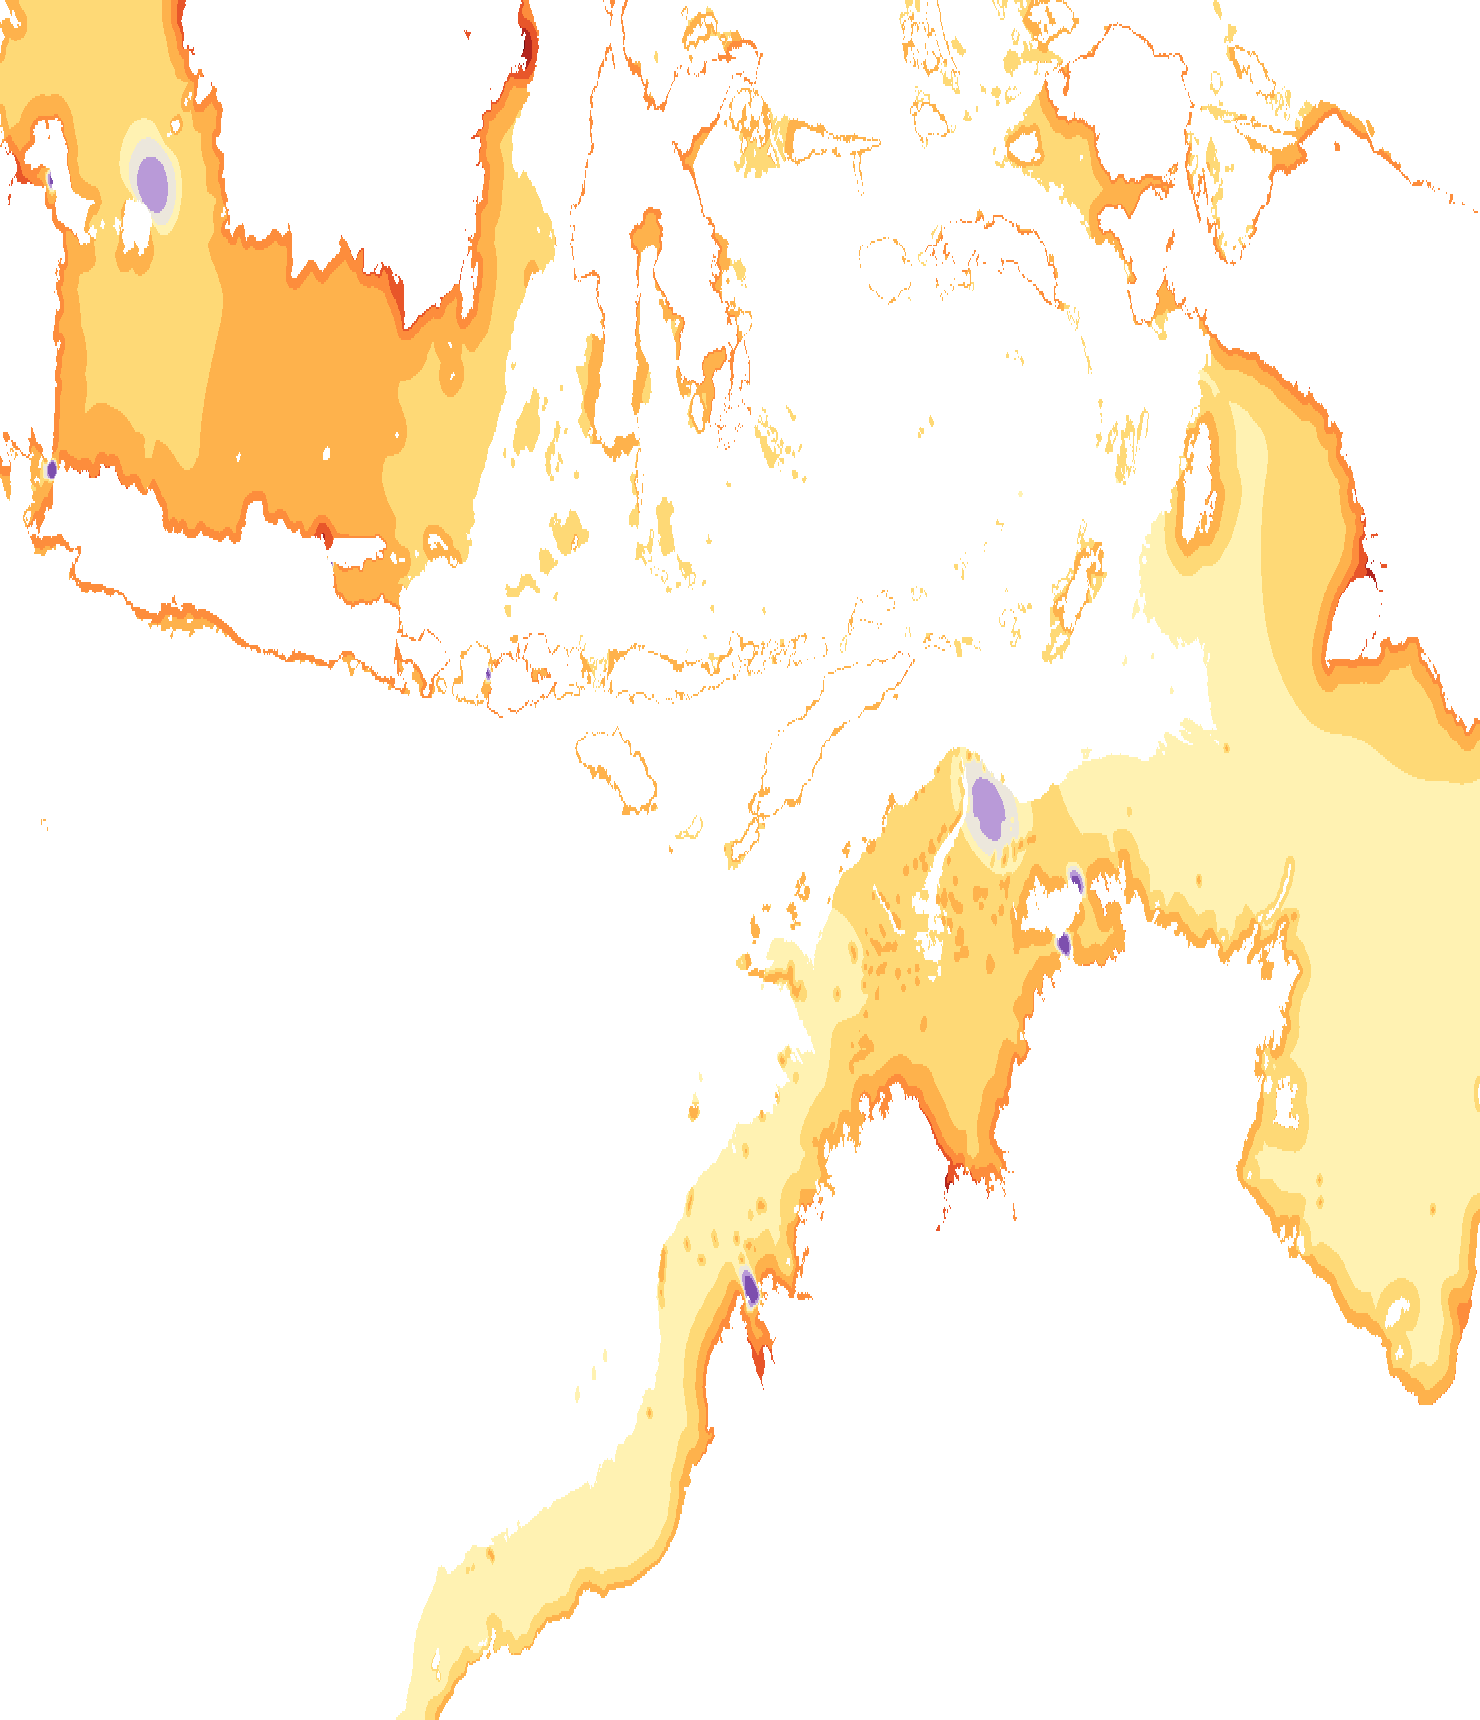
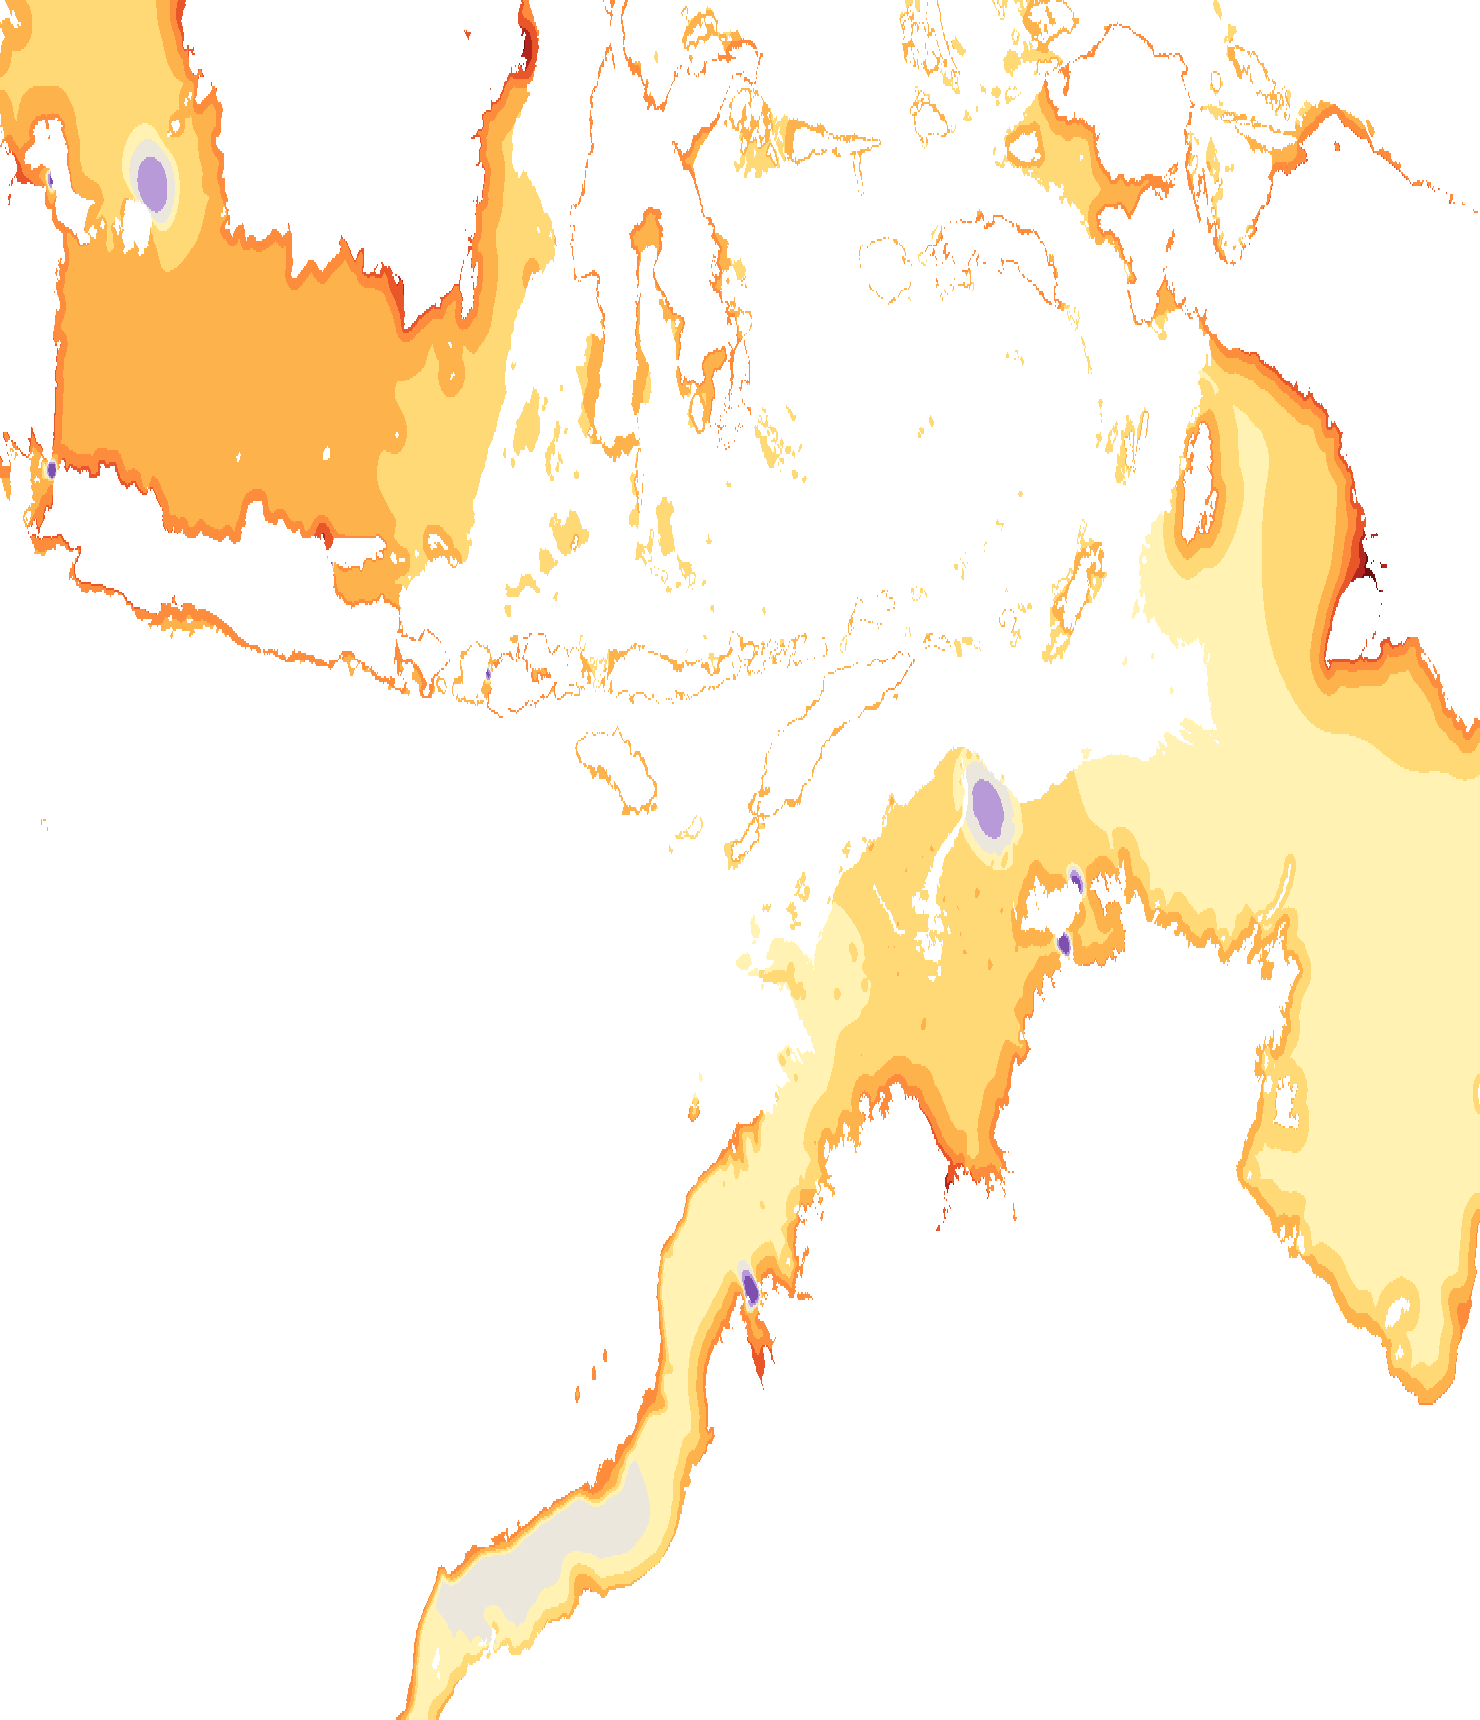
Sediment model v2: Pilbara bypass shelf, outer NW Shelf wedge, revised Java Sea, Bonaparte and New Guinea points
Claude-Session: https://claude.ai/code/session_01PCjsd15EcgFZkcbPsekX8y

diff --git a/docs/index.html b/docs/index.html
@@ -9,7 +9,7 @@
   <link rel="preconnect" href="https://fonts.gstatic.com" crossorigin>
   <link href="https://fonts.googleapis.com/css2?family=Alfa+Slab+One&family=Atkinson+Hyperlegible:wght@400;700&family=Chakra+Petch:wght@600;700&display=swap" rel="stylesheet">
   <link rel="stylesheet" href="https://unpkg.com/maplibre-gl@4.7.1/dist/maplibre-gl.css">
-  <link rel="stylesheet" href="style.css?v=20261028c">
+  <link rel="stylesheet" href="style.css?v=20261028d">
 </head>
 <body>
   <header class="top">
@@ -106,6 +106,6 @@
   </dialog>
 
   <script src="https://unpkg.com/maplibre-gl@4.7.1/dist/maplibre-gl.js"></script>
-  <script src="app.js?v=20261028c"></script>
+  <script src="app.js?v=20261028d"></script>
 </body>
 </html>

diff --git a/scripts/sediment_model.py b/scripts/sediment_model.py
@@ -36,7 +36,9 @@ OUT = ROOT / "data" / "sediment"
 RES = 0.025                     # degrees (~2.8 km)
 WEDGE_KM = 15.0                 # e-folding distance of the nearshore wedge
 BANK_RISE_M = 15.0              # a cell this much shallower than its ~30 km surroundings counts as a bank
-BANK_CAP_M = 3.0                # Holocene carbonate added on such banks (Australian shelf only)
+BANK_CAP_M = 1.0                # Holocene carbonate on banks: crusted, so only a thin cap (Timor Sea / Bonaparte only)
+# Outer NW Shelf: 5-15 m of post-LGM sediment overlaps the ~125 m lowstand shoreline (Lebrec et al. 2022)
+OUTER_NWS = dict(lon=(113.0, 123.5), top_m=-100.0, max_m=10.0)
 IDW_POWER = 2.0
 IDW_SMOOTH_KM = 60.0          # softens IDW so single points do not make bullseyes
 
@@ -143,7 +145,7 @@ def main():
 
     # carbonate caps on local seabed highs, Australian shelf (south and east of Wallacea)
     surround = ndimage.uniform_filter(np.where(domain, elev, lowest), size=int(30 / kmy) | 1)
-    aus = (LON > 116) & (LAT < -9.5) & ~((LON > 137.5) & (LAT > -9.8))
+    aus = (LON > 123.5) & (LON < 132.5) & (LAT < -9.5)
     banks = domain & aus & (elev - surround > BANK_RISE_M) & (elev < -15) & (dcoast > 20)
     lab, n = ndimage.label(banks)
     sizes = ndimage.sum(banks, lab, range(1, n + 1))
@@ -151,11 +153,24 @@ def main():
     carbonate = np.where(banks, BANK_CAP_M, 0.0)
     carbonate = ndimage.gaussian_filter(carbonate, 1.0)
 
-    thick = (background + wedge + deltas + carbonate) * (1 - scour) - erosion
+    lo_, hi_ = OUTER_NWS["lon"]
+    ramp = np.clip((OUTER_NWS["top_m"] - elev) / (OUTER_NWS["top_m"] - lowest), 0, 1)
+    outer = np.where((LON > lo_) & (LON < hi_) & (LAT < -14), ramp * OUTER_NWS["max_m"], 0.0)
+    outer = ndimage.gaussian_filter(outer, 2.0)
+
+    thick = (background + wedge + deltas + carbonate + outer) * (1 - scour) - erosion
     thick = ndimage.gaussian_filter(thick, 0.8)
     thick = np.where(domain, thick, np.nan)
     v = thick[domain]
     print(f"thickness: min {v.min():.1f}  p5 {np.percentile(v,5):.1f}  median {np.median(v):.2f}  p95 {np.percentile(v,95):.1f}  max {v.max():.1f}")
+    # mass-balance check: mean modelled thickness in regions with known river sediment budgets
+    cell_m2 = (kmx * 1000) * (kmy * 1000) * np.cos(np.radians(LAT)) / math.cos(math.radians((north + south) / 2))
+    for name, (x0, x1, y0, y1) in {"Gulf of Carpentaria": (136.0, 141.5, -17.6, -10.8),
+                                    "Timor Sea / Bonaparte / Sahul": (123.0, 132.0, -15.5, -9.0),
+                                    "Java Sea": (105.5, 116.0, -7.0, -3.0)}.items():
+        m = domain & (LON >= x0) & (LON <= x1) & (LAT >= y0) & (LAT <= y1)
+        vol = np.nansum(np.where(m, thick, 0) * cell_m2)
+        print(f"  {name}: area {m.sum() and (cell_m2[m].sum()/1e6):,.0f} km2, mean {np.nanmean(thick[m]):.2f} m, volume {vol/1e9:,.0f} km3")
     print(f"net erosion cells: {(v < -0.5).mean()*100:.1f}%   relict (|t|<0.5): {(np.abs(v) < 0.5).mean()*100:.1f}%")
 
     # ---- write grids
